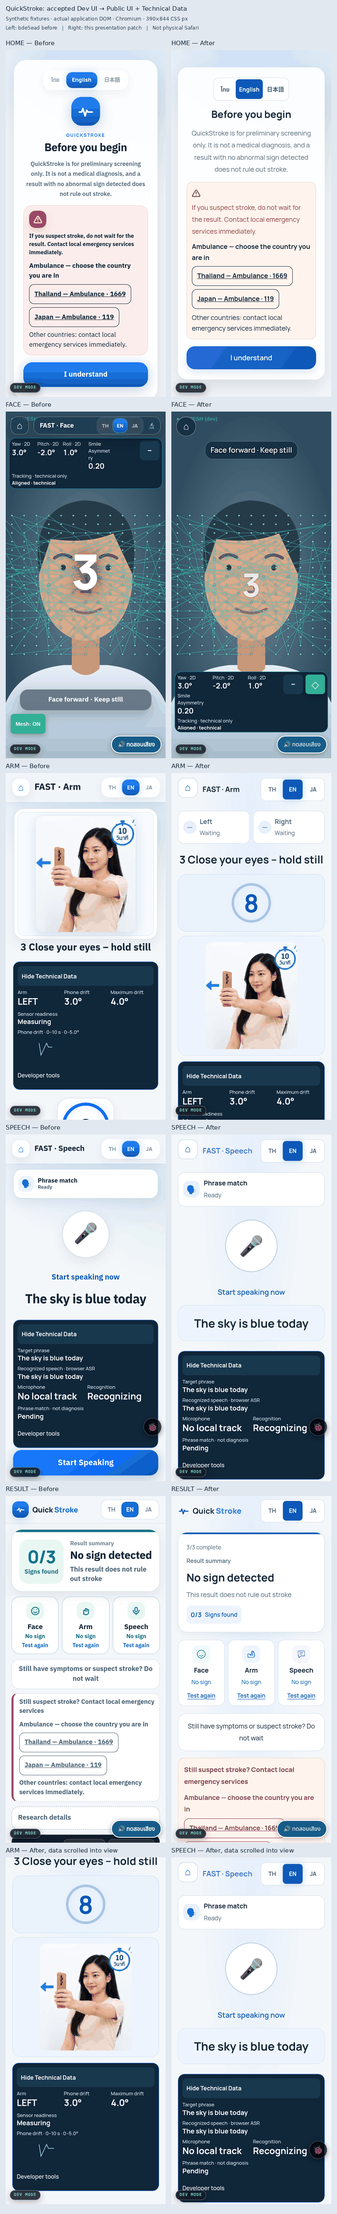
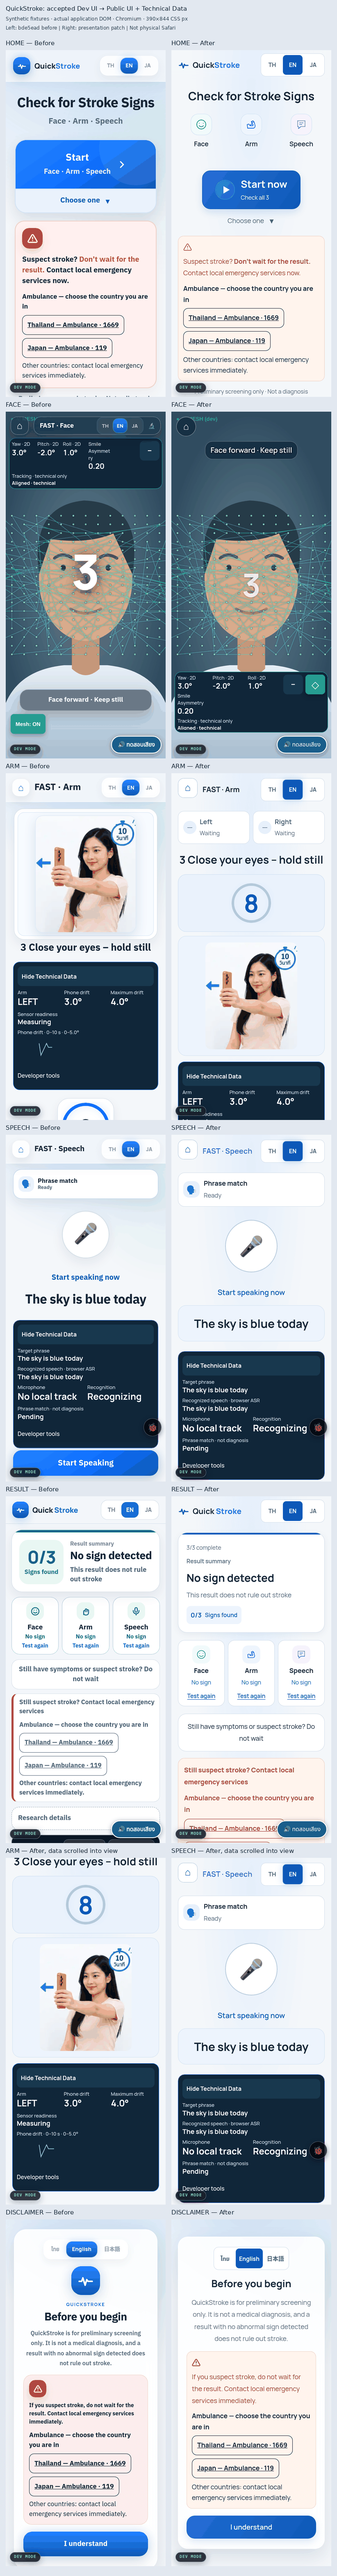
Validate Demo visual parity while preserving genuine Dev actions and Research isolation

diff --git a/index.html b/index.html
@@ -1518,7 +1518,8 @@ function updatePublicHomePresentation() {
   });
   const primaryLabel = document.getElementById('primary-label');
   const primaryMeta = document.getElementById('primary-meta');
-  if (screeningState.validCompleted === MODULES.length) {
+  if (screeningState.validCompleted === MODULES.length &&
+      (APP_MODE?.resolveMode?.() || 'public') === 'public') {
     primaryLabel.textContent = tr('index.publicPrimaryRestart', tr('index.primaryRestart', 'ทดสอบอีกครั้ง'));
     primaryMeta.textContent = tr('index.publicRestartSupport', tr('index.fullName', 'เริ่มครบ 3 อย่างใหม่'));
   } else if (screeningState.attemptedCount === 0) {

diff --git a/docs/technical-demo-public-parity.md b/docs/technical-demo-public-parity.md
@@ -44,7 +44,7 @@ The accepted Technical Data adapters and values remain the data source. Legacy D
 ## Deliberate boundaries / risks
 
 - **Medium visual UAT risk; low engine-change risk.** CSS now reaches Dev, so actual Safari camera painting, mesh alignment, browser chrome and operator reachability must be reaccepted. Chromium is not physical Safari evidence.
-- Home and Result reuse the approved hierarchy/styles/icons. Their genuine Dev language, recovery, history, TTS and emergency-country policies remain Dev policies. In particular Dev keeps explicitly labelled country choices; this patch does not apply Public emergency defaults or Public history writes to engineering sessions.
+- Home and Result reuse the approved hierarchy/styles/icons. Their genuine Dev language, recovery, history, TTS and emergency-country policies remain Dev policies. Completed Dev Home retains its genuine View Result label/handler, rather than mislabelling that action as Public Test Again. In particular Dev keeps explicitly labelled country choices; this patch does not apply Public emergency defaults or Public history writes to engineering sessions.
 - Existing module Home buttons lead to ordinary `index.html`; that entry can deliberately select Public through the existing safe staff/Public boundary. Use the explicit `index.html?dev=1` bookmark to re-enter Demo. Full module navigation remains engineering-only. No navigation or access policy is rewritten to achieve visual parity.
 - `dev=1` is not authentication. A separately authorized protected immutable Preview is required. No project, deployment, protection setting or Production alias is changed here.
 - Existing known Face cold-start/voice, Speech audio/Retry and Arm illustration issues are not fixed or reinterpreted by this presentation patch.
@@ -59,7 +59,7 @@ All fixtures are synthetic and local. No camera/model/microphone or remote Resea
 - 144 Face scalar cases: loading, ready, still/countdown, smile, completion, Retry; actual existing onResults-to-scalar bridge with synthetic inputs, lost/reacquired/stale tracking, unavailable smile evidence, scrolling and Show/Hide.
 - Existing 72 Demo layout cases, 12 Public/Research old/new comparisons, 8 Speech first-plus-three-Retry callback replays with desktop/iPhone UA profiles, permission and ASR failures.
 - Original Face Full→Arm / Individual→Result / Start/Retry dispatch and Arm intro/left/right/retry/completion/navigation checks. Acquisition/audio boundaries are substituted only in the local test responses.
-- Public Face subset (72 layouts plus original navigation/Research pixel comparison/offline checks) and Public Arm completion suite. Complete original suites run in GitHub CI.
+- Public Face subset (72 layouts plus original navigation/Research pixel comparison/offline checks) and Public Arm completion suite. Complete original suites run in GitHub CI. The legacy Speech browser, Face startup and Power Words isolation assertions now explicitly require Public visual/copy parity in actual Dev; Research still requires its original text and pixel-identical layout. The initial CI failures at those assertions were outdated Dev-presentation expectations, not acquisition or scoring failures.
 - Screenshots use existing IBM Plex Sans Thai and Manrope fixtures, plus official Noto CJK Japanese review-only fonts. Fonts and runtime fixtures are not committed. CI without this optional fixture directory uses its installed fallback fonts.
 
 See `ui-reviews/technical-demo-public-parity/comparison.png`: accepted legacy Dev (left) versus Public presentation + Technical Data (right), at 390×844 CSS px, local Chromium screenshots captured at 2× device scale; the labelled contact sheet is resampled to CSS-pixel size and palette-compressed for portability. Face portrait/mesh and all sample values are synthetic. A viewport crop does not imply below-fold controls or graph are absent; Arm/Speech data remain reachable by scrolling.
